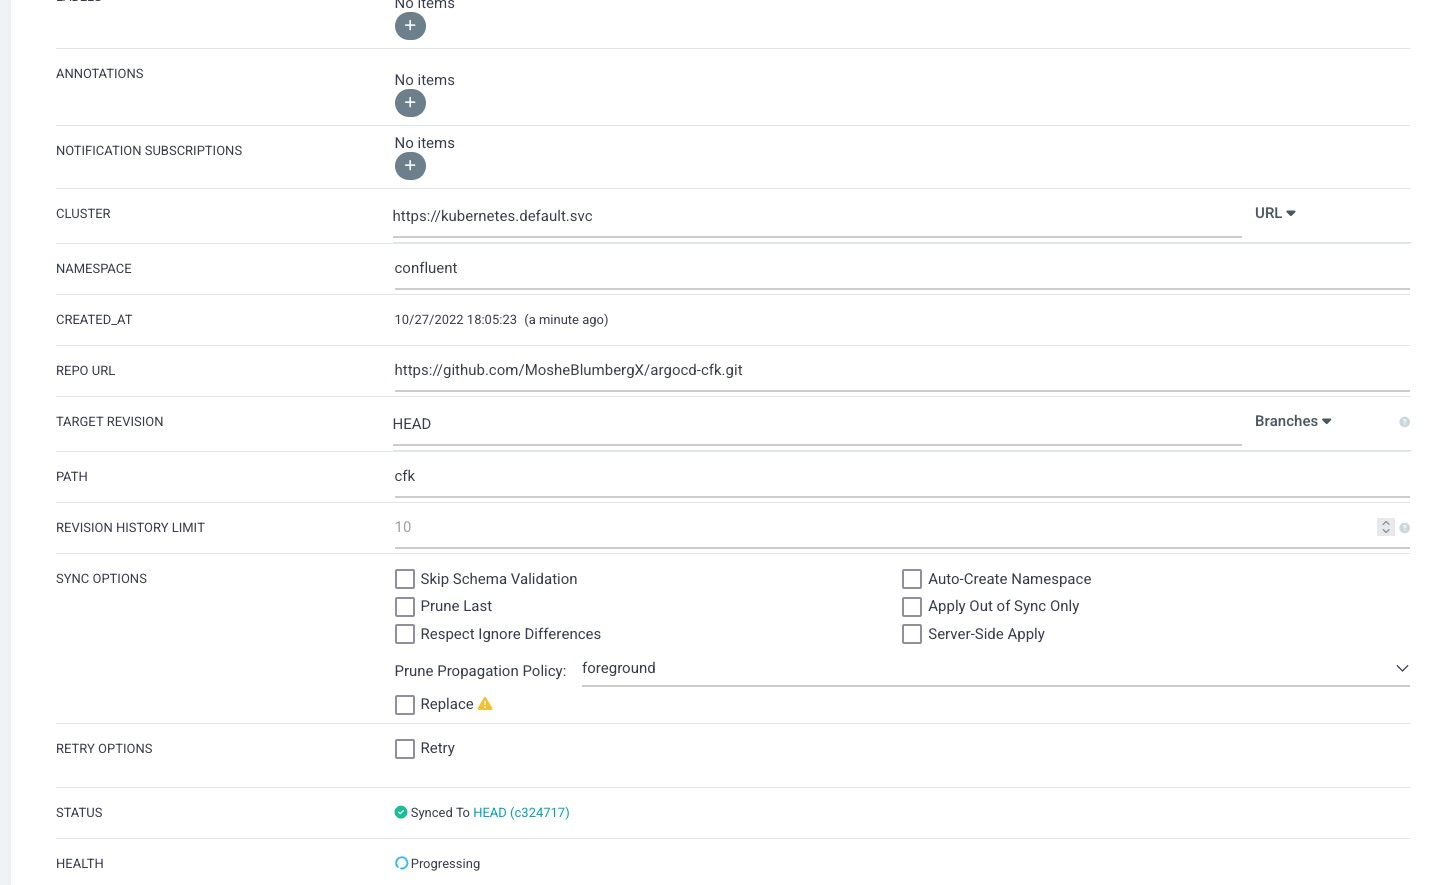
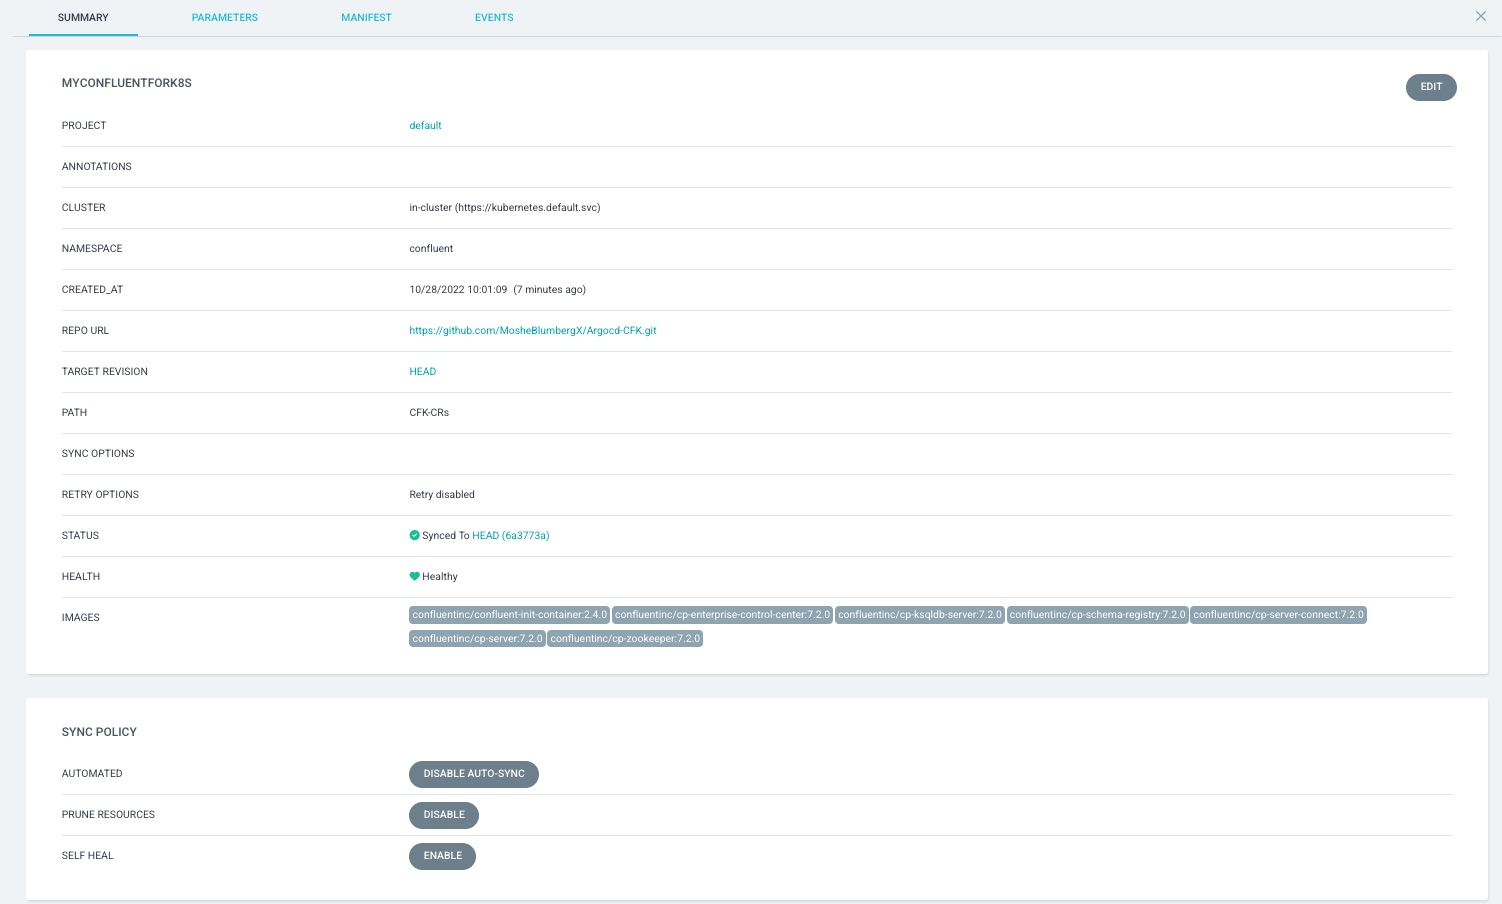
commit

diff --git a/README.md b/README.md
@@ -2,6 +2,7 @@
 
 This example leverage a gitop approach to deploying Confluent For Kubernetes with integration of Argo CD and CR, using [ArgosCD](https://argo-cd.readthedocs.io/en/stable/getting_started/) for CI/CD with minikube. 
 
+## Steps to deploy Argo CD
 
 1. Install Argo CD  
 ```
@@ -34,10 +35,41 @@ argocd account update-password
 kubectl config get-contexts -o name
 argocd cluster add minikube # or any other that you wanted 
 ```
-6. Create An Application From A Git Repository
+
+
+## Steps to create CFK as an application via GitHub  
+
+1. Create An Application From A Git Repository
 
 ```
 kubectl config set-context --current --namespace=argocd
 
 
-argocd app create CFK --repo hhttps://github.com/MosheBlumbergX/Argocd-CFK.git --path CFK-CRs --dest-server https://kubernetes.default.svc --dest-namespace confluent
+argocd app create myconfluentfork8s \
+--repo https://github.com/MosheBlumbergX/Argocd-CFK.git \
+--path CFK-CRs --dest-server https://kubernetes.default.svc \
+--dest-namespace confluent \
+--sync-policy automated \
+--auto-prune 
+```
+
+2. You can also leverage the [CLI](https://argo-cd.readthedocs.io/en/stable/getting_started/#creating-apps-via-ui)
+
+
+### Some useful kubectl commands 
+
+```
+kubectl --namespace confluent get confluent
+kubectl --namespace confluent get pods
+kubectl --namespace confluent get topic
+kubectl  --namespace confluent exec -it kafka-2  -- kafka-topics --bootstrap-server localhost:9071 --describe --topic moshetopic   
+```
+
+
+## Deletion 
+
+To [delete](https://argo-cd.readthedocs.io/en/stable/user-guide/app_deletion/) the app: 
+
+```
+argocd app delete myconfluentfork8s --cascade -y 
+```
